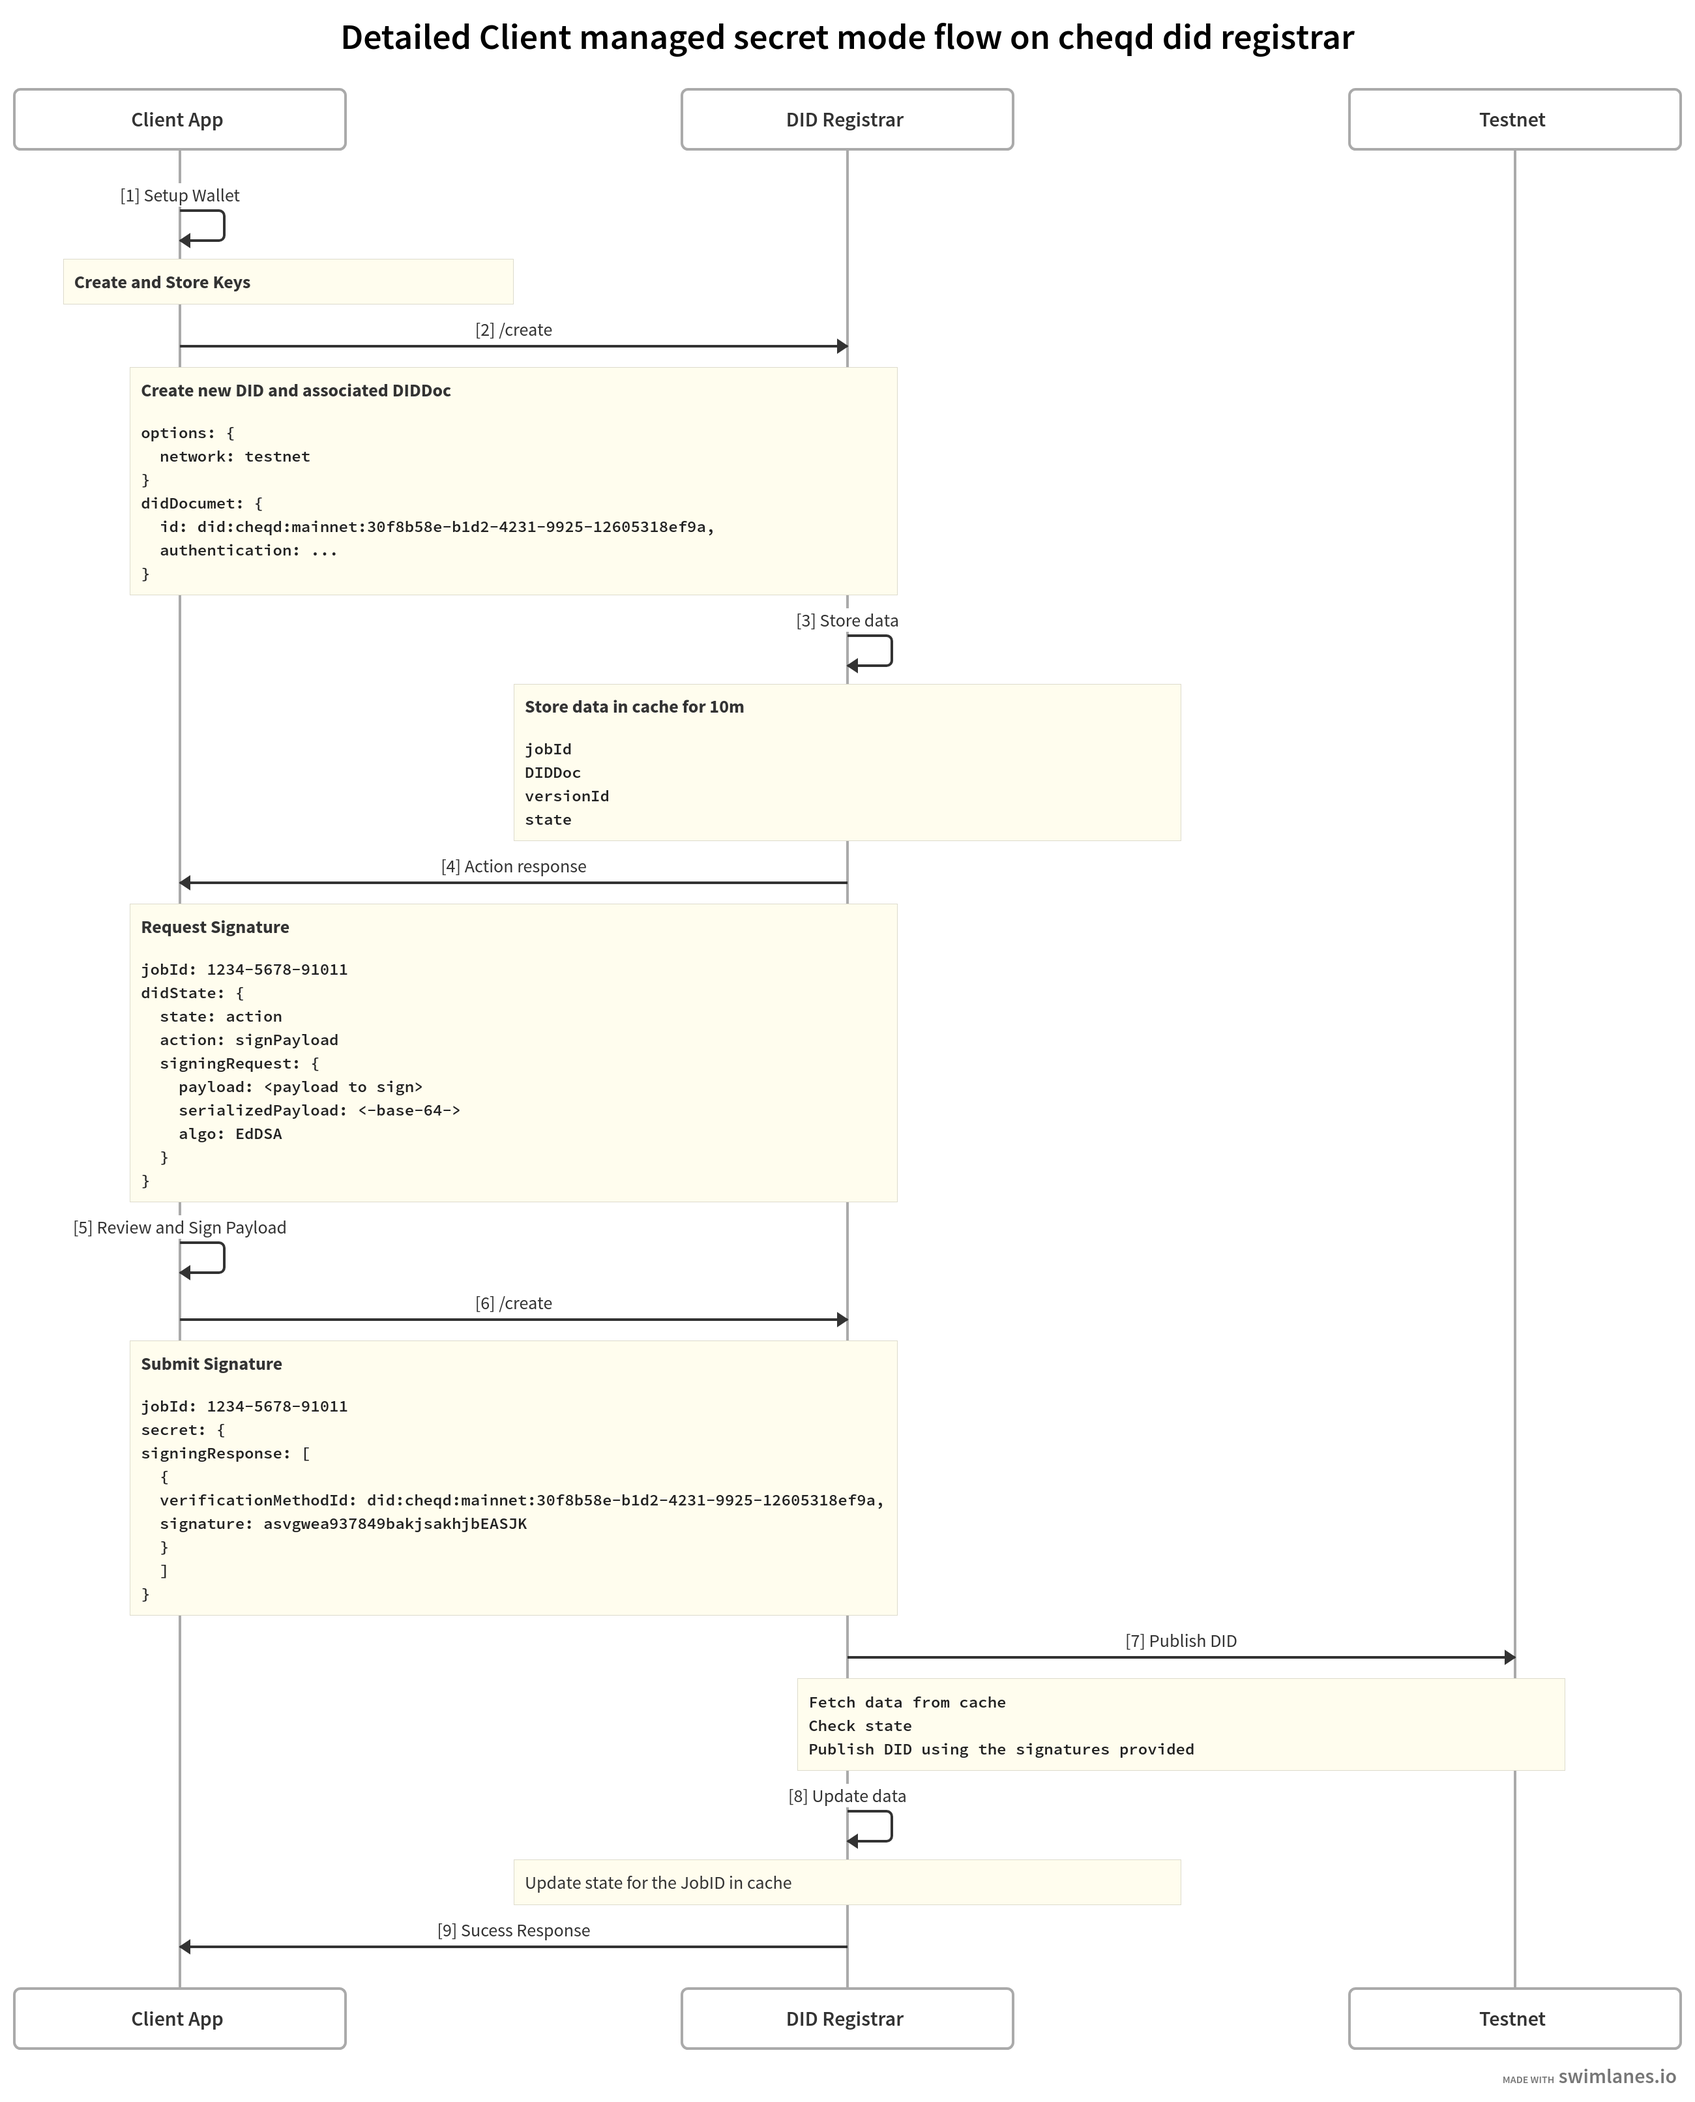
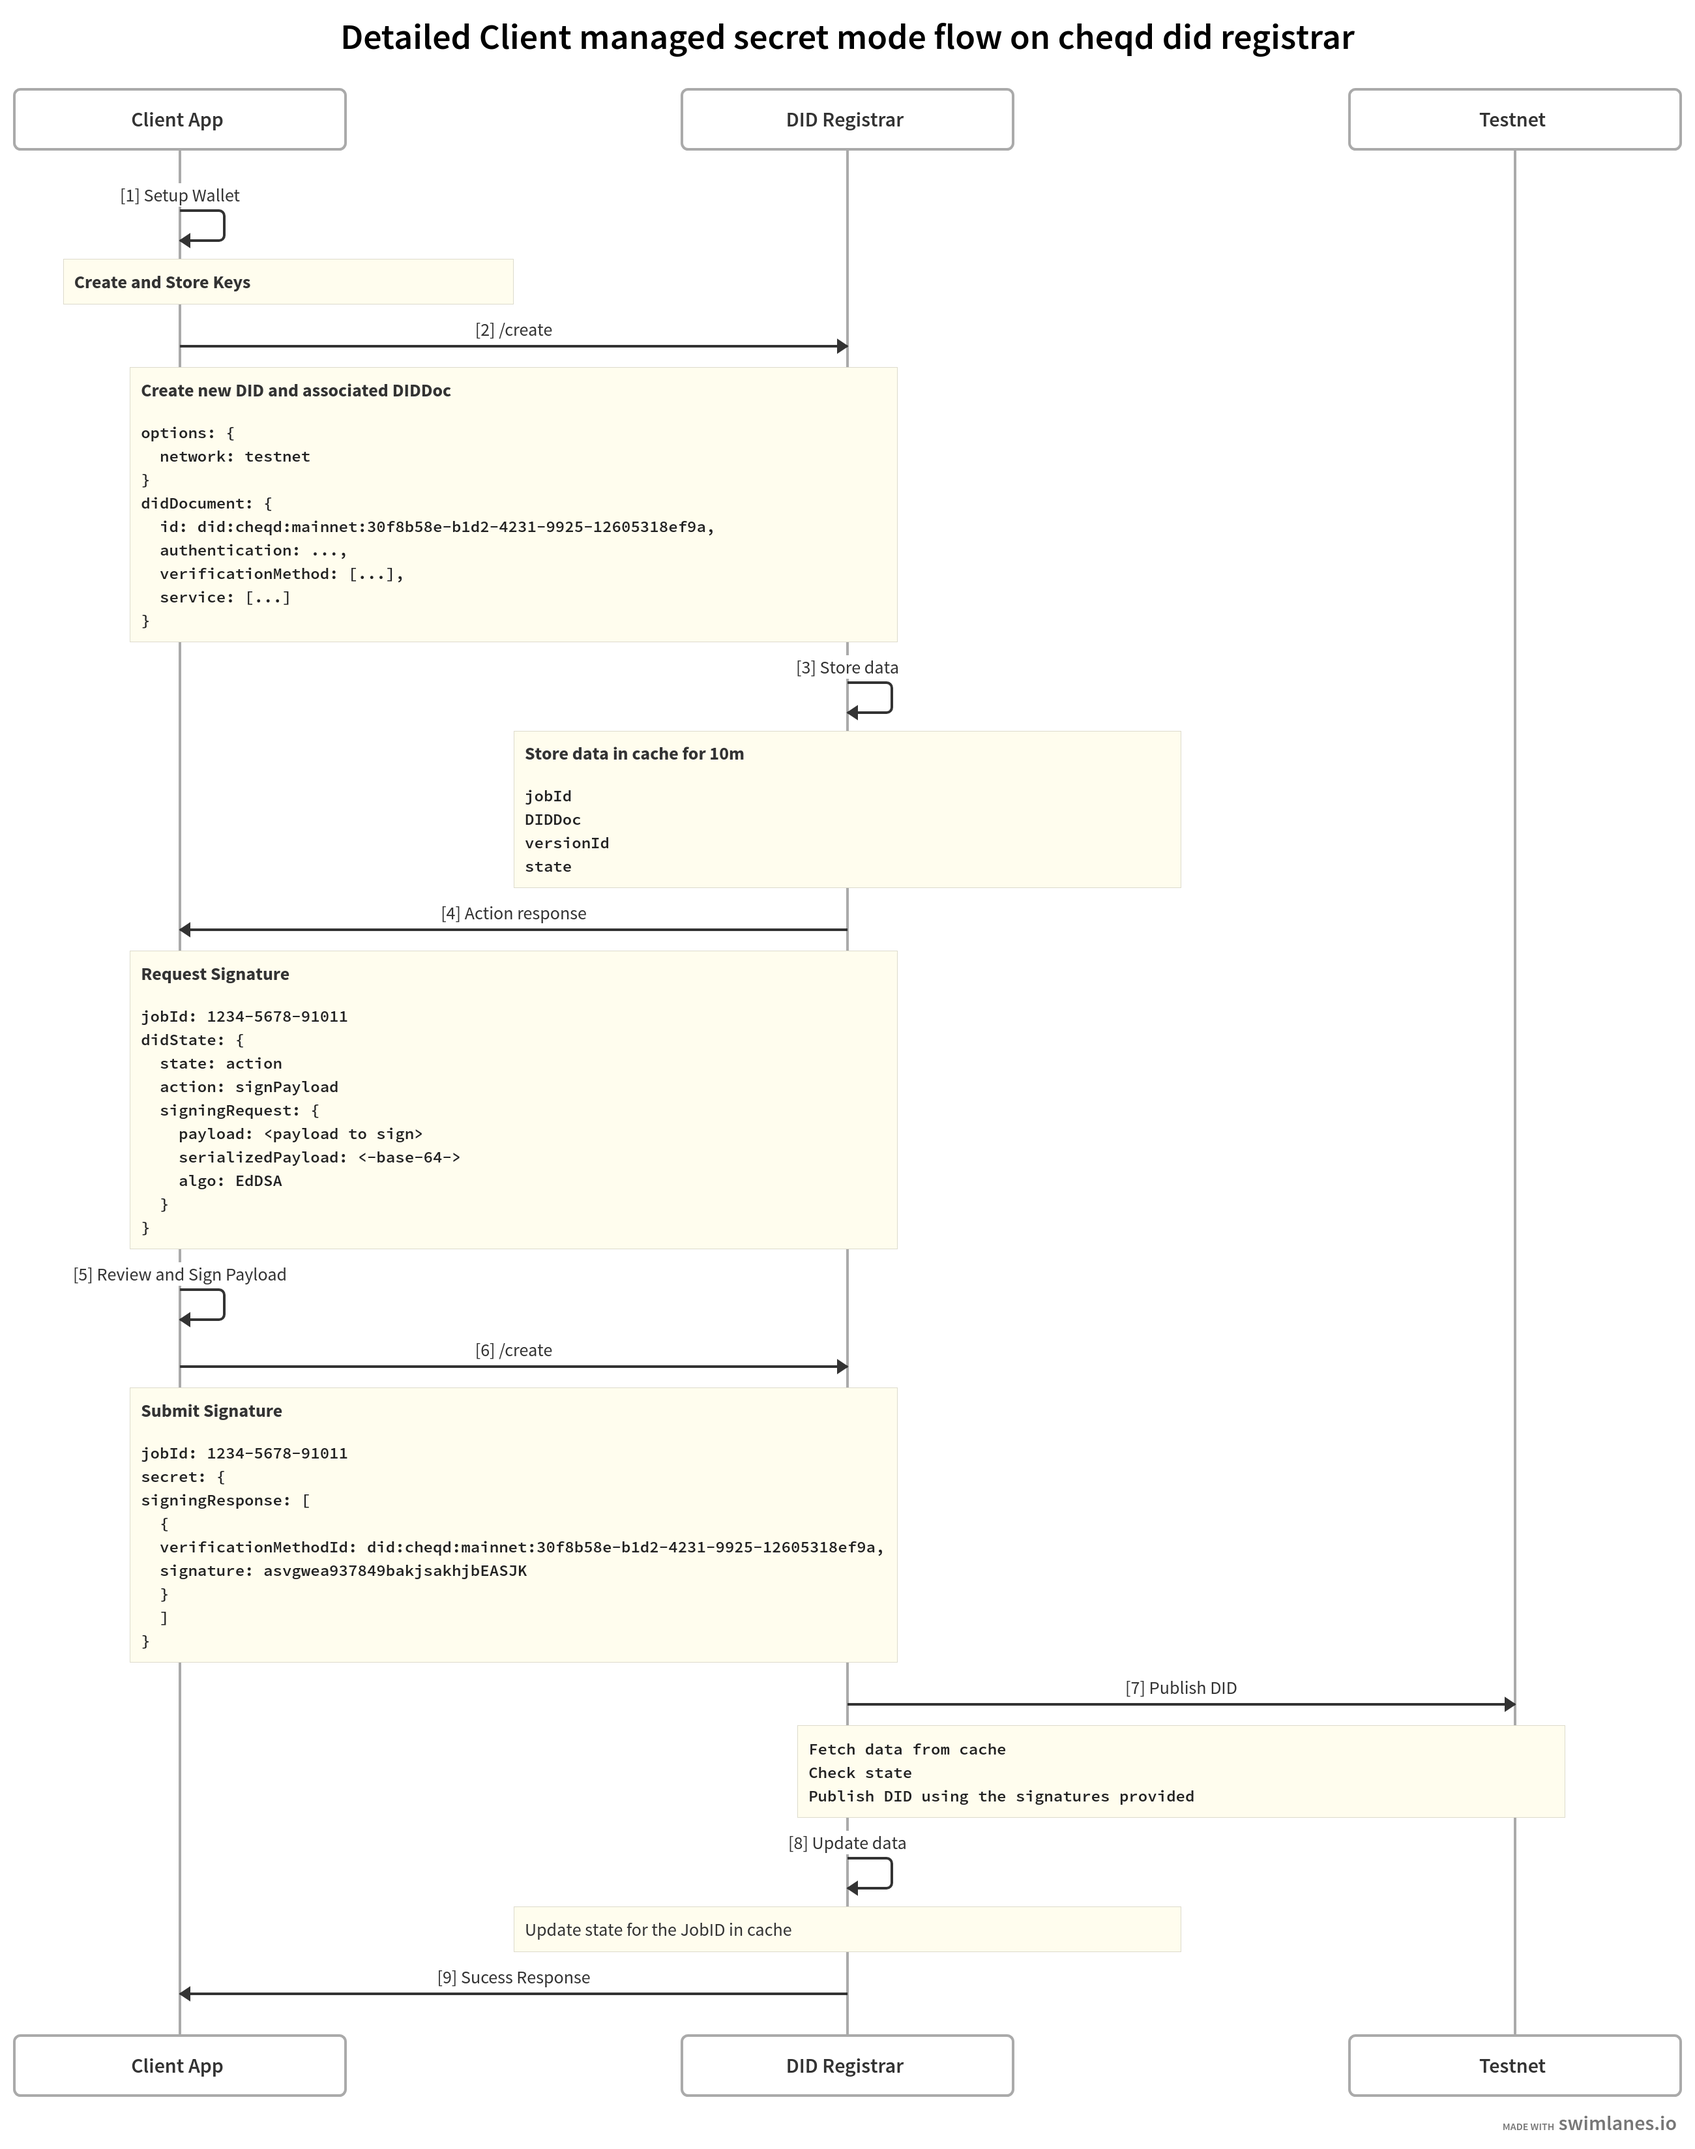
docs: Add protocol description

diff --git a/architecture/adr-list/adr-003-did-registrar.md b/architecture/adr-list/adr-003-did-registrar.md
@@ -40,13 +40,23 @@ In this mode, the DID Registrar does not itself have access to the cryptographic
 
 The cheqd DID Registrar **only supports** the [Client Managed Secret Mode](https://identity.foundation/did-registration/#client-managed-secret-mode), considering the security and scalability of the registrar. The workflow for all the operations follows the protocol below:
 
-1. Request Operation
-2. Return JobId and Serialized Payload
-3. Submit JobId and SigningResponse
-4. Validate signature and Complete Operation
-
 ![*Full cheqd DID Resolver* sequence diagram](../../.gitbook/assets/cheqd-did-registrar-sequence-diagram.png)
 
+In the above diagram you can see the following steps
+
+1. Request Operation
+    * The client requests a DID operation providing the required fields
+2. Return JobId and Serialized Payload
+    * The registrar responds with a JobId and a base64 encoded serialized payload
+    * The serialized payload should be signed by all the verificationMethods belonging to the controllers of the DID Document
+3. Submit JobId and SigningResponse
+    * Submit the JobId and the SigningResponse's to the same api
+4. Validate signature and Complete Operation
+    * The registrar validates the signature for the provided DID Document
+    * Submits the DID operation request to the network
+
+***
+<br>
 
 
 ## DID Operations
@@ -55,6 +65,15 @@ The cheqd DID Registrar **only supports** the [Client Managed Secret Mode](https
 
 **Endpoint**: `/1.0/create` <br>
 Provide a DID Document payload according to the [w3c did core specification](https://www.w3.org/TR/did-core/#dfn-did-documents) in the request body.
+
+
+The payload can also be created using our helper endpoint `/1.0/did-document`, which requires the following options to construct the DID Document payload
+
+1. Verification Method Type
+2. Method Specific Algorithm
+3. Network
+4. PublicKey Hex encoded string
+
 
 <details>
 <summary>Request Operation</summary>
